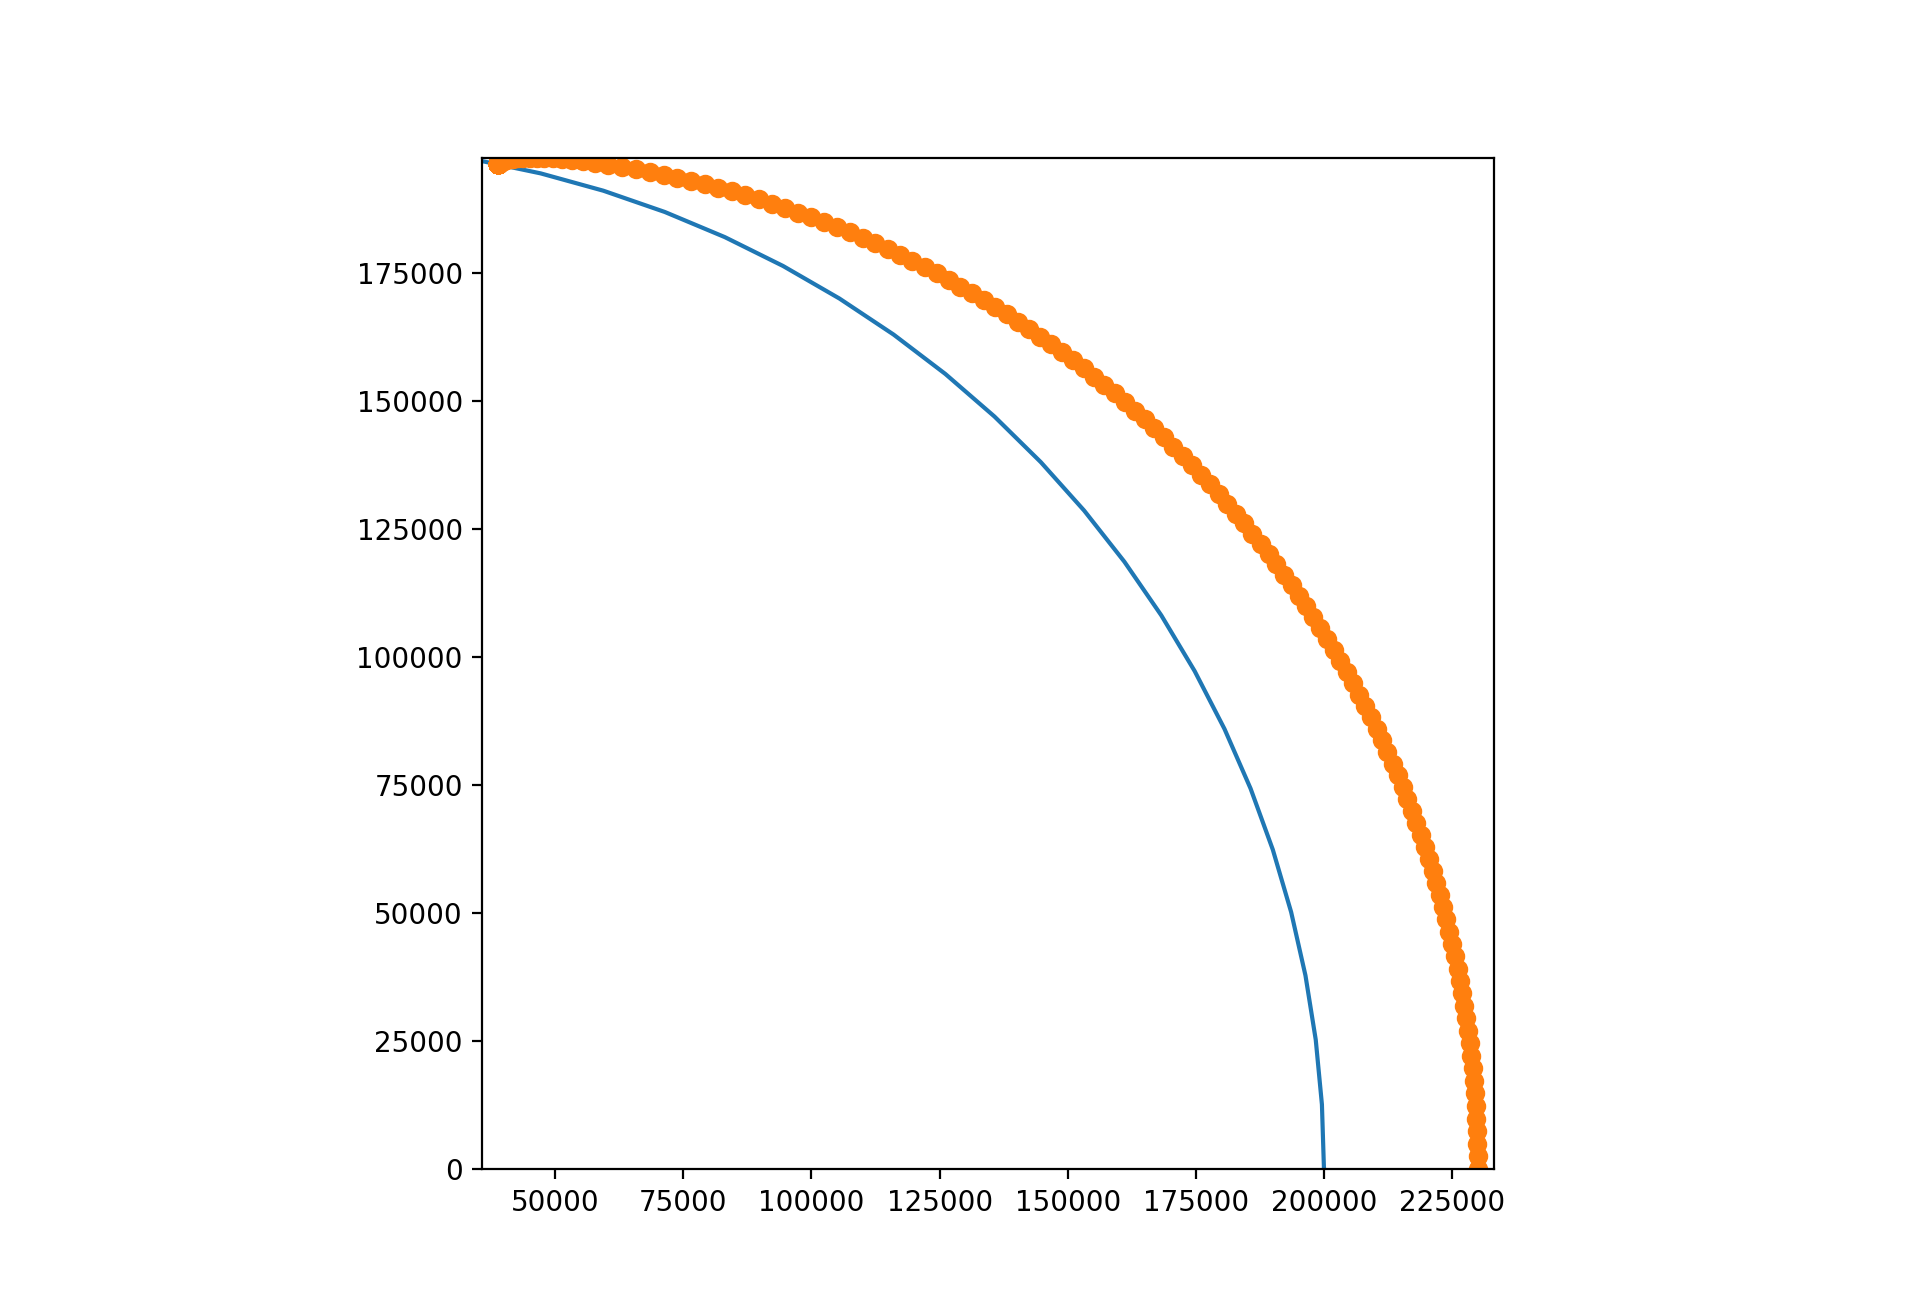
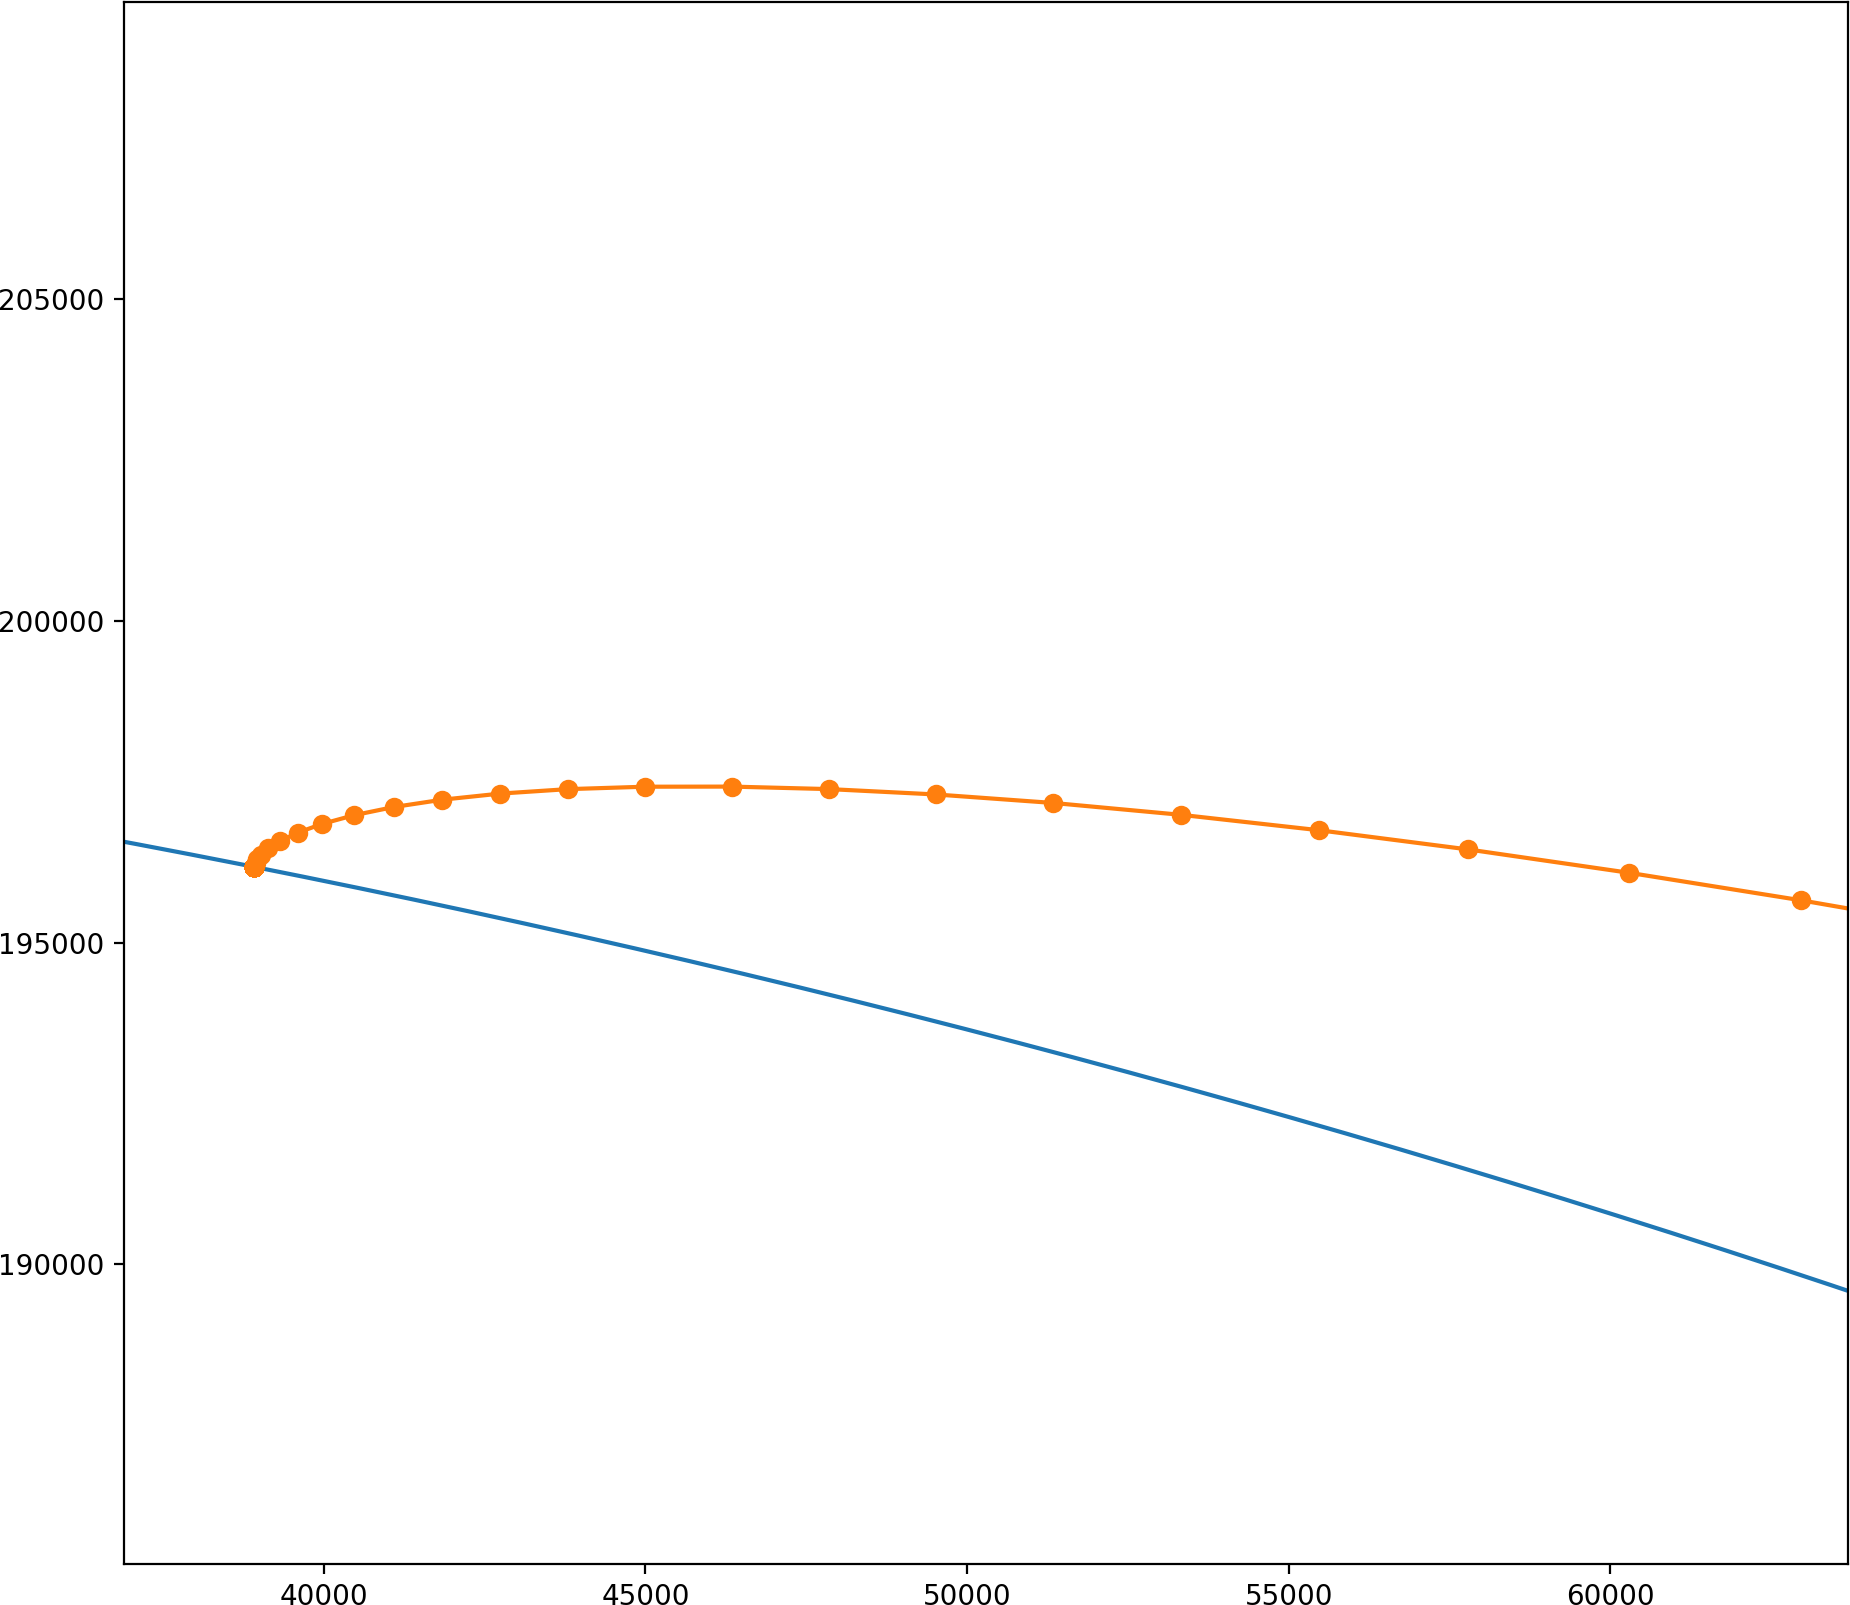
Cleaned up mun landing image

diff --git a/python/kspcalc/examples/mun_landing/run.py b/python/kspcalc/examples/mun_landing/run.py
@@ -50,7 +50,7 @@ if __name__ == "__main__" :
     # Mun
     mun_r_m = ksp.dInterp("R('Mun')")
     # Plot Mun
-    mun_XY = mpt.sample_circle(mun_r_m, 100)
+    mun_XY = mpt.sample_circle(mun_r_m, 10000)
     plots.append(mun_XY)
     plot_opts.append(None)
     
